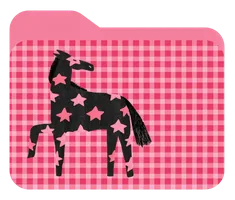
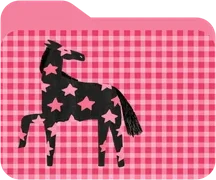
One folder size, one label gap, one tag that means something
FOUR THINGS, and the first two had the same root cause.

The folders were NOT all the same size. Each asset framed its folder
differently — 3-13% padding — and two of them (floral, scenery) were SQUARE
files holding a folder only 74% as tall. `object-fit: contain` fits the whole
FILE, so those two drew a visibly shorter folder floating in its box with 24px
of dead air beneath it.

That same dead air is why the gap between folder and name varied: the label
hangs off the BOX, and the box was not the folder. Every asset is now cropped
to its folder ink and trimmed to one shared aspect (1.200, the median; trims
are 0-5px on ~210px drawings, invisible). All eight render 93x77 and every
label sits exactly 6.7px below its folder, at every viewport tested.

The résumés were COVERED by the crowd, and only on short windows. Piece sizes
come from the stage's WIDTH while positions come from its HEIGHT, so a shorter
window closes the vertical gaps while the labels stay a fixed 43.7px. At 945
tall there were 51px of clearance; at 720 there were -3, and the crowd (z 17,
last in the artboard's paint order) painted straight over both names. Two
fixes: the résumés lift 14.6 units for the manners, and the eight live files
take a z-band of their own above all nine decorations for the guarantee. A
z-index on the label alone could not do it — each tile sets its own z, which
makes it a stacking context, so the label could only ever sort inside its own
[…]

diff --git a/src/DesktopFiles.jsx b/src/DesktopFiles.jsx
@@ -75,9 +75,8 @@ const PIECES = [
   {
     key: "folder-horse",
     src: `${A}/meal-maestro.webp`,
-    x: 454, y: 112, w: 117.39, h: 99.686,
+    x: 454, y: 113.1, w: 117.39, h: 97.825,
     label: "untitled folder",
-    kind: "Folder",
     aria: "untitled folder — empty",
     opensEmpty: "horse",
   },
@@ -86,16 +85,15 @@ const PIECES = [
   {
     key: "folder-scenery",
     src: `${A}/folder-scenery.webp`,
-    x: 258, y: 560.93, w: 117.39, h: 117.39,
+    x: 258, y: 570.7, w: 117.39, h: 97.825,
     label: "untitled folder",
-    kind: "Folder",
     aria: "untitled folder — empty",
     opensEmpty: "scenery",
   },
   {
     key: "folder-floral",
     src: `${A}/folder-floral.webp`,
-    x: 94.04, y: 564.71, w: 117.39, h: 117.39,
+    x: 94.04, y: 574.5, w: 117.39, h: 97.825,
     label: "Layover",
     kind: "Case Study",
     aria: "Layover — brand and product design, open the case study",
@@ -105,7 +103,7 @@ const PIECES = [
   {
     key: "futurepreneurs",
     src: `${A}/futurepreneurs.webp`,
-    x: 94.04, y: 413.08, w: 117.23, h: 99.367,
+    x: 94.11, y: 413.85, w: 117.39, h: 97.825,
     // "10.0" is an edition number and it cost 26px of label — enough that
     // this one ran wider than the gap to Meal Maestro beside it. The edition
     // is in the case study, where there is room to say it.
@@ -118,7 +116,7 @@ const PIECES = [
   {
     key: "folder-green",
     src: `${A}/folder-green.webp`,
-    x: 264.95, y: 413.08, w: 117.39, h: 99.845,
+    x: 264.95, y: 414.09, w: 117.39, h: 97.825,
     label: "Meal Maestro",
     kind: "Case Study",
     aria: "Meal Maestro — UI design, open the case study",
@@ -130,9 +128,8 @@ const PIECES = [
   {
     key: "about-me",
     src: `${A}/layover.webp`,
-    x: 454, y: 256.48, w: 117.23, h: 97.772,
+    x: 454.08, y: 256.45, w: 117.39, h: 97.825,
     label: "About Me",
-    kind: "Note",
     aria: "About Me — the scrapbook, opens in a window",
     opensNote: "about",
     phone: [78, 88], pw: 56,
@@ -165,9 +162,8 @@ const PIECES = [
   {
     key: "resume-design",
     src: `${A}/resume-design.webp`,
-    x: 1500.3, y: 332.6, w: 117.39, h: 101.56,
+    x: 1500.3, y: 318, w: 117.39, h: 97.825,
     label: "Design résumé",
-    kind: "Mrinali Bhardwaj",
     aria: "Mrinali Bhardwaj, design résumé — PDF, opens in a new tab",
     href: "/resume-design.pdf",
     newTab: true,
@@ -176,9 +172,8 @@ const PIECES = [
   {
     key: "resume-tech",
     src: `${A}/resume-tech.webp`,
-    x: 1334.3, y: 332.6, w: 117.39, h: 101.56,
+    x: 1334.3, y: 318, w: 117.39, h: 97.825,
     label: "Tech résumé",
-    kind: "Mrinali Bhardwaj",
     aria: "Mrinali Bhardwaj, tech résumé — PDF, opens in a new tab",
     href: "/resume-tech.pdf",
     newTab: true,
@@ -573,7 +568,15 @@ export default function DesktopFiles({ visible, onOpenCase, onOpenNote, onOpenEm
           top: `${t}%`,
           aspectRatio: `${p.w} / ${p.h}`,
           ...box,
-          zIndex: i + 1,
+          // FILES ABOVE PICTURES, always. The artboard's paint order put the
+          // crowd (last, so highest) over the two résumés, and on a 720-tall
+          // window it covered their names outright. A z-index on the label
+          // alone cannot fix that: each tile sets its own z, which makes it a
+          // stacking context, so the label can only ever sort INSIDE its own
+          // tile. The eight live files take a band of their own above all nine
+          // decorations instead — which is also just true: a thing you can
+          // click should never be behind a thing you cannot.
+          zIndex: interactive ? 100 + i : i + 1,
           pointerEvents,
         };
 

diff --git a/src/desktop-files.css b/src/desktop-files.css
@@ -180,8 +180,18 @@
 
    Absolutely positioned so it cannot affect the artwork's aspect box, and wider
    than the piece so a long name is not forced to truncate at the icon's width. */
+/* ABOVE EVERY PIECE OF ARTWORK, ALWAYS. The pieces paint in the artboard's own
+   order, so the decoration on the right (the crowd is last, z 17) sits above
+   the two résumés (z 7 and 8). Their boxes clear each other at 945px tall and
+   do NOT at 720: piece sizes come from the stage's WIDTH while positions come
+   from its HEIGHT, so a shorter window closes the vertical gaps while the
+   labels stay a fixed 43.7px — and the crowd painted over both names.
+   The geometry is fixed too (the résumés lift 14.6 units), but a name is UI
+   and a picture is wallpaper, and no window shape should be able to reorder
+   those two. This is the guarantee; the spacing is the manners. */
 .dpiece-label {
   position: absolute;
+  z-index: 40;
   top: calc(100% + 0.42rem);
   left: 50%;
   transform: translateX(-50%);
@@ -302,10 +312,31 @@
      file is comfortably hittable. */
   .cover-desktop.is-phone .dpiece:not(.is-art) {
     min-width: 44px;
-    min-height: 44px;
     /* the tap flash is Safari's, and it paints a grey rectangle over a cut-out
        icon — the press animation in DesktopFiles.jsx replaces it */
     -webkit-tap-highlight-color: transparent;
+  }
+
+  /* THE TOUCH TARGET IS NOT THE TILE. `min-height: 44px` used to sit on the
+     tile itself, and on a 320-wide screen it won: the box became 44x44 while
+     the folder inside it is 44x36.7, so 7px of dead air appeared under the
+     drawing and the label — which hangs off the BOX — drifted away from the
+     folder again. That is the exact fault the assets were recropped to remove,
+     reintroduced by the rule meant to help.
+
+     So the box stays the size of the folder and this grows a transparent
+     target around it instead. It inherits the anchor's pointer events, so the
+     tappable area is >=44px in both axes while the layout is untouched. */
+  .cover-desktop.is-phone .dpiece:not(.is-art)::before {
+    content: "";
+    position: absolute;
+    left: 50%;
+    top: 50%;
+    transform: translate(-50%, -50%);
+    width: 100%;
+    height: 100%;
+    min-width: 44px;
+    min-height: 44px;
   }
 
   .dpiece-label {
